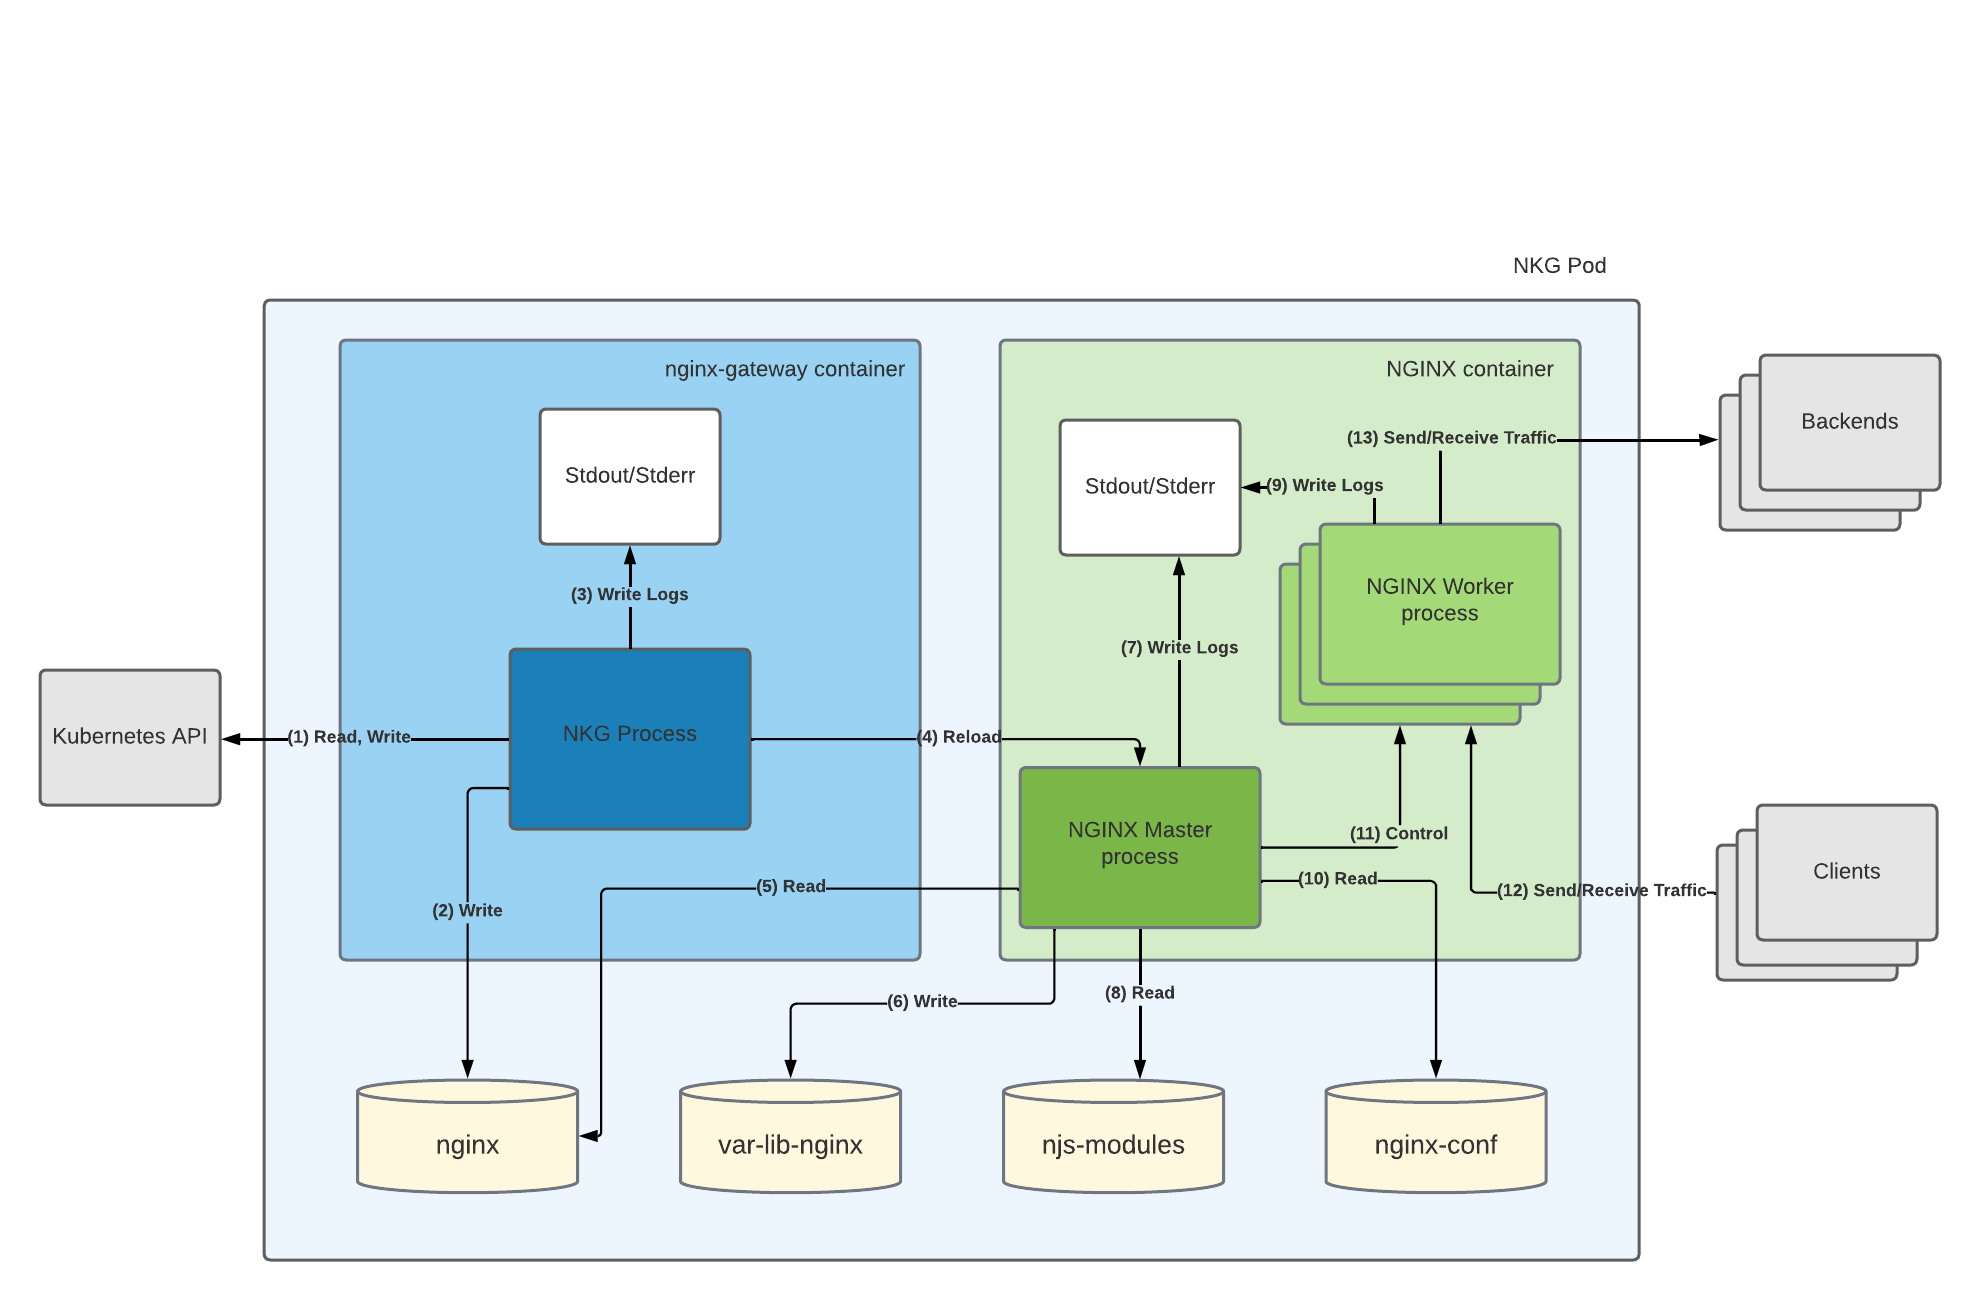
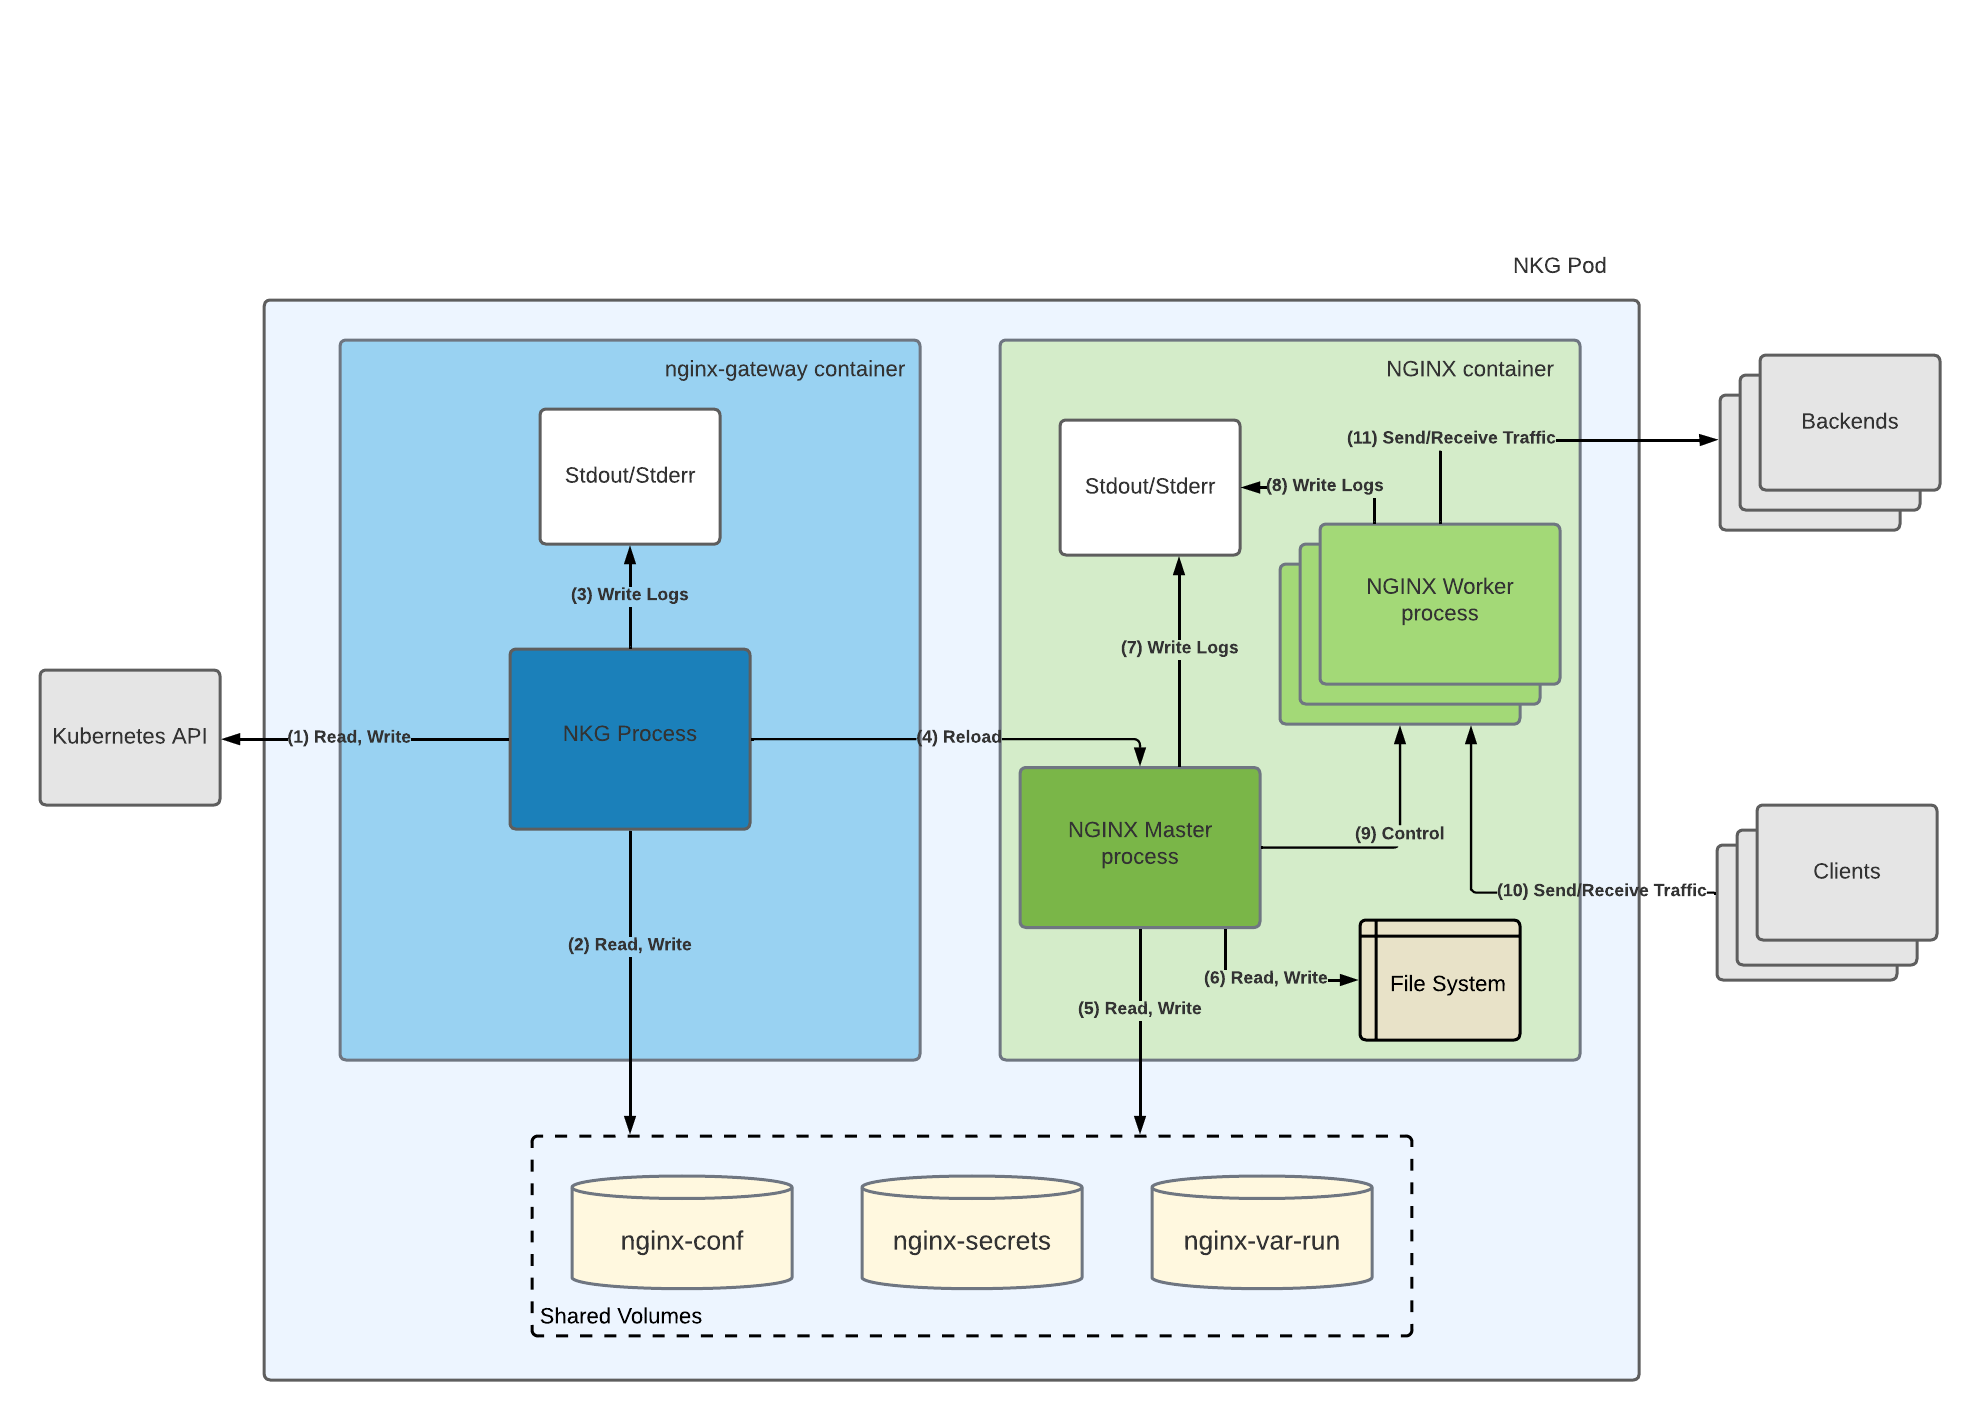
Update architecture doc and diagram

diff --git a/docs/architecture.md b/docs/architecture.md
@@ -98,27 +98,33 @@ parentheses. To enhance readability, the suffix "process" has been omitted from 
 
 1. (HTTPS) *NKG* reads the *Kubernetes API* to get the latest versions of the resources in the cluster and writes to the
 API to update the handled resources' statuses and emit events.
-2. (File I/O) *NKG* generates NGINX *configuration* based on the cluster resources and writes them as `.conf` files to
-the mounted `nginx` volume, located at `/etc/nginx`. It also writes *TLS certificates* and *keys*
-from [TLS Secrets][secrets] referenced in the accepted Gateway resource to the volume at the
-path `/etc/nginx/secrets`.
+2. (File I/O)
+   - Write: *NKG* generates NGINX *configuration* based on the cluster resources and writes them as `.conf` files to the
+     mounted `nginx-conf` volume, located at `/etc/nginx/conf.d`. It also writes *TLS certificates* and *keys*
+     from [TLS Secrets][secrets] referenced in the accepted Gateway resource to the `nginx-secrets` volume at the
+     path `/etc/nginx/secrets`.
+   - Read: *NKG* reads the PID file `nginx.pid` from the `nginx-var-run` volume, located at `/var/run/nginx`. *NKG*
+     extracts the PID of the nginx process from this file in order to send reload signals to *NGINX master*.
 3. (File I/O) *NKG* writes logs to its *stdout* and *stderr*, which are collected by the container runtime.
 4. (Signal) To reload NGINX, *NKG* sends the [reload signal][reload] to the **NGINX master**.
-5. (File I/O) The *NGINX master* reads *configuration files*  and the *TLS cert and keys* referenced in the
-configuration when it starts or during a reload. These files, certificates, and keys are stored in the `nginx` volume
-that is mounted to both the `nginx-gateway` and `nginx` containers.
-6. (File I/O): The *NGINX master* writes to the auxiliary Unix sockets folder, which is mounted to the `nginx`
-container as the `var-lib-nginx` volume. The mounted path for this volume is `/var/lib/nginx`.
+5. (File I/O)
+   - Write: The *NGINX master* writes its PID to the `nginx.pid` file stored in the `nginx-var-run` volume.
+   - Read: The *NGINX master* reads *configuration files*  and the *TLS cert and keys* referenced in the configuration when
+     it starts or during a reload. These files, certificates, and keys are stored in the `nginx-conf` and `nginx-secrets`
+     volumes that are mounted to both the `nginx-gateway` and `nginx` containers.
+6. (File I/O)
+   - Write: The *NGINX master* writes to the auxiliary Unix sockets folder, which is located in the `/var/lib/nginx`
+     directory.
+   - Read: The *NGINX master* reads the `nginx.conf` file from the `/etc/nginx` directory. This [file][conf-file] contains
+     the global and http configuration settings for NGINX. In addition, *NGINX master*
+     reads the NJS modules referenced in the configuration when it starts or during a reload. NJS modules are stored in
+     the `/usr/lib/nginx/modules` directory.
 7. (File I/O) The *NGINX master* sends logs to its *stdout* and *stderr*, which are collected by the container runtime.
-8. (File I/O): The *NGINX master* reads the NJS modules referenced in the configuration when it starts or during a
-reload. NJS modules are stored in the `njs-modules` volume that is mounted to the `nginx` container.
-9. (File I/O) An *NGINX worker* writes logs to its *stdout* and *stderr*, which are collected by the container runtime.
-10. (File I/O): The *NGINX master* reads the `nginx.conf` file from the mounted `nginx-conf` volume.
-This [file][conf-file] contains the global and http configuration settings for NGINX.
-11. (Signal) The *NGINX master* controls the [lifecycle of *NGINX workers*][lifecycle] it creates workers with the new
+8. (File I/O) An *NGINX worker* writes logs to its *stdout* and *stderr*, which are collected by the container runtime.
+9. (Signal) The *NGINX master* controls the [lifecycle of *NGINX workers*][lifecycle] it creates workers with the new
 configuration and shutdowns workers with the old configuration.
-12. (HTTP,HTTPS) A *client* sends traffic to and receives traffic from any of the *NGINX workers* on ports 80 and 443.
-13. (HTTP,HTTPS) An *NGINX worker* sends traffic to and receives traffic from the *backends*.
+10. (HTTP,HTTPS) A *client* sends traffic to and receives traffic from any of the *NGINX workers* on ports 80 and 443.
+11. (HTTP,HTTPS) An *NGINX worker* sends traffic to and receives traffic from the *backends*.
 
 [controller]: https://kubernetes.io/docs/concepts/architecture/controller/
 
@@ -130,6 +136,6 @@ configuration and shutdowns workers with the old configuration.
 
 [lifecycle]: https://nginx.org/en/docs/control.html#reconfiguration
 
-[conf-file]: https://github.com/nginxinc/nginx-kubernetes-gateway/blob/main/deploy/manifests/nginx-conf.yaml
+[conf-file]: https://github.com/nginxinc/nginx-kubernetes-gateway/blob/main/internal/mode/static/nginx/conf/nginx.conf
 
 [share]: https://kubernetes.io/docs/tasks/configure-pod-container/share-process-namespace/
